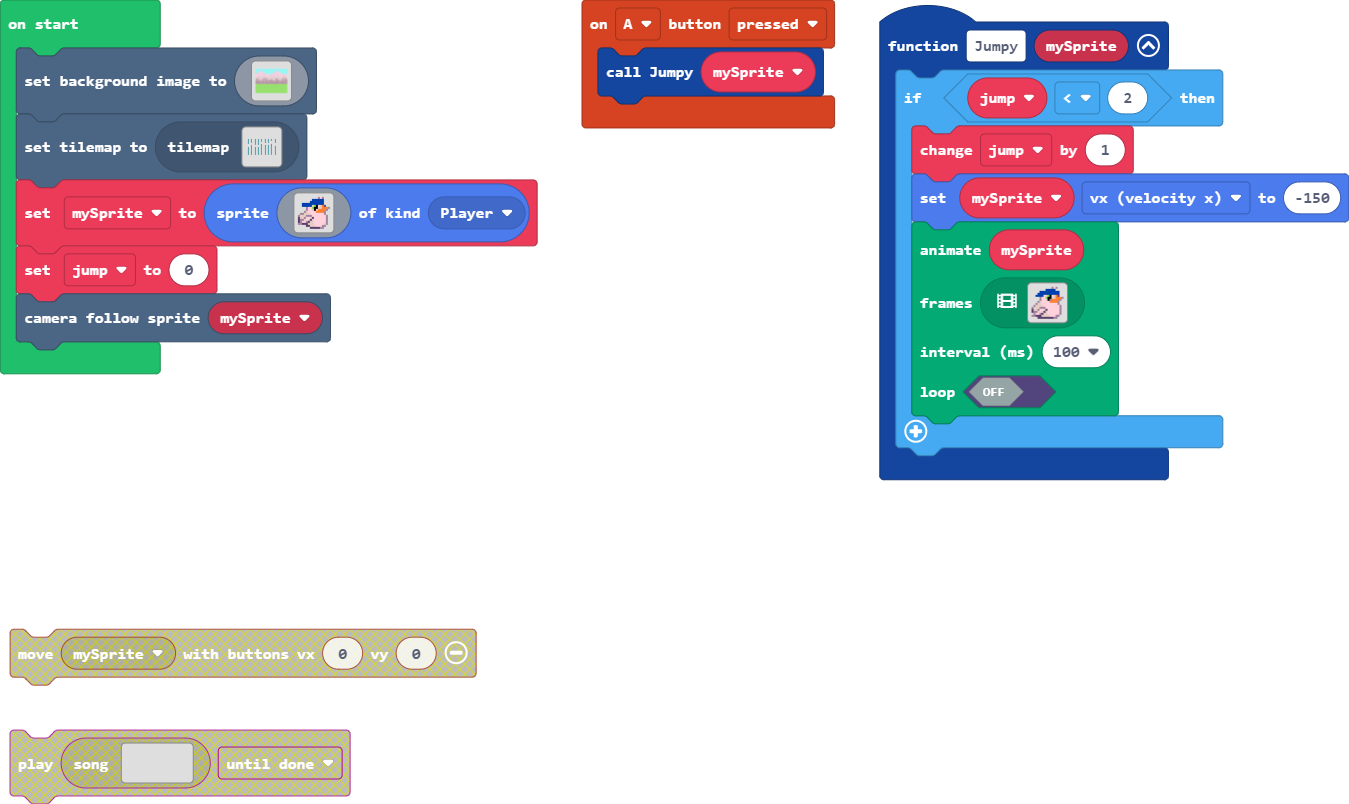
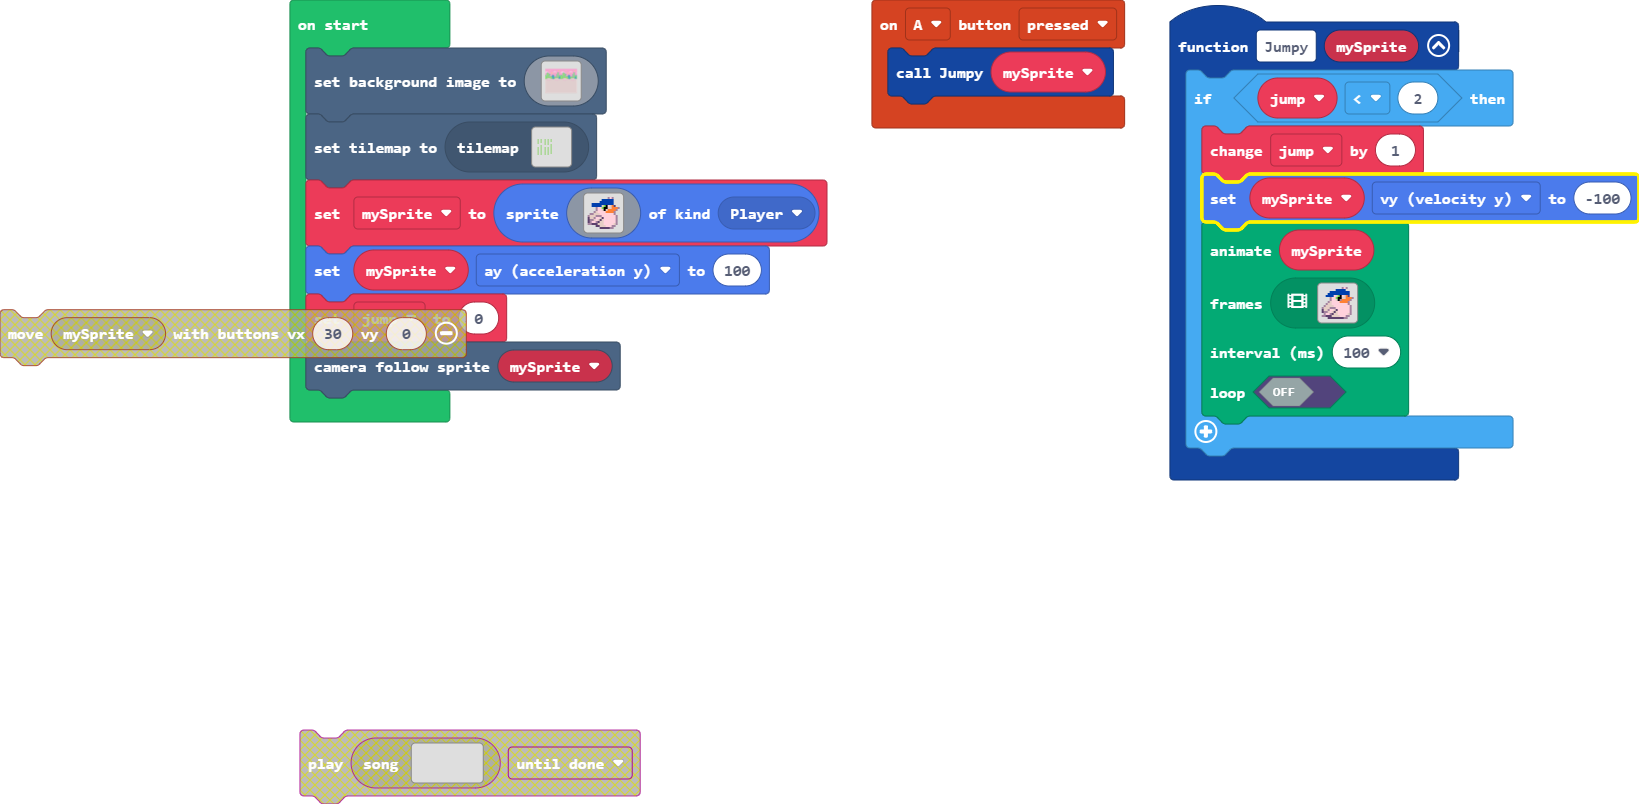
Update main.blocks, main.ts

diff --git a/main.ts b/main.ts
@@ -1,7 +1,7 @@
 function Jumpy (mySprite: Sprite) {
     if (jump < 2) {
         jump += 1
-        mySprite.vx = -150
+        mySprite.vy = -100
         animation.runImageAnimation(
         mySprite,
         [img`
@@ -207,5 +207,6 @@ mySprite = sprites.create(img`
     . . . . c c d d d 1 1 1 b b . . 
     . . . . . . c c c c c b b . . . 
     `, SpriteKind.Player)
+mySprite.ay = 100
 jump = 0
 scene.cameraFollowSprite(mySprite)
